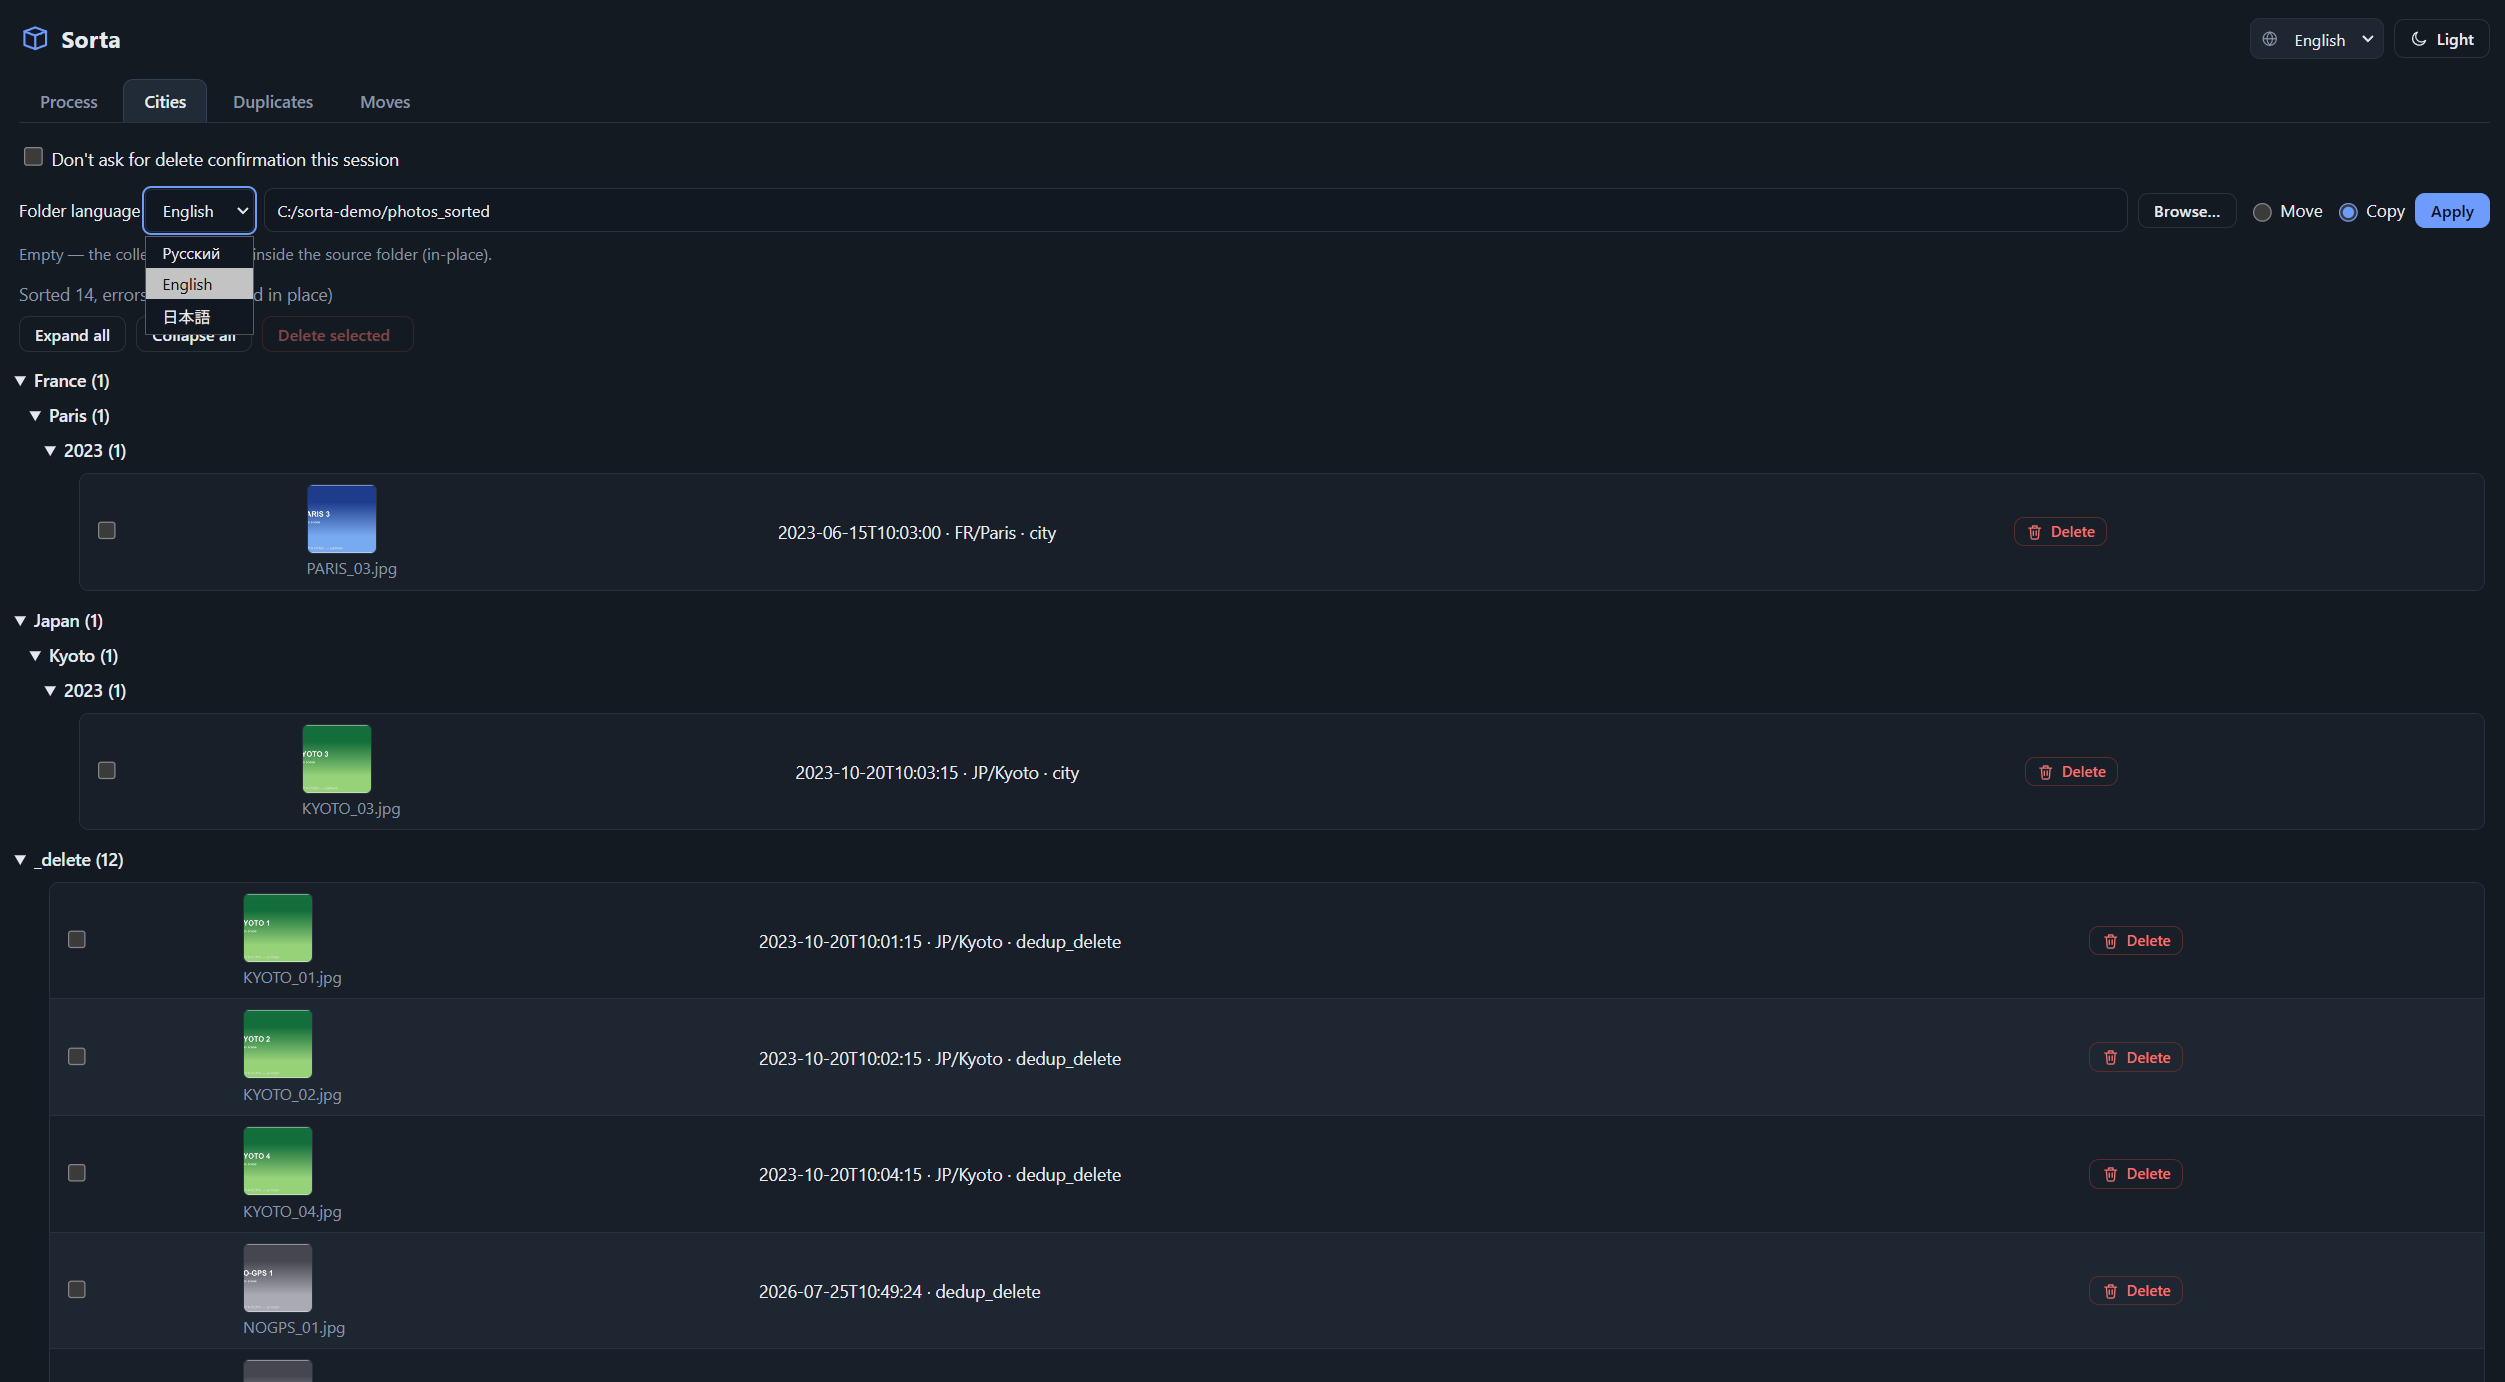
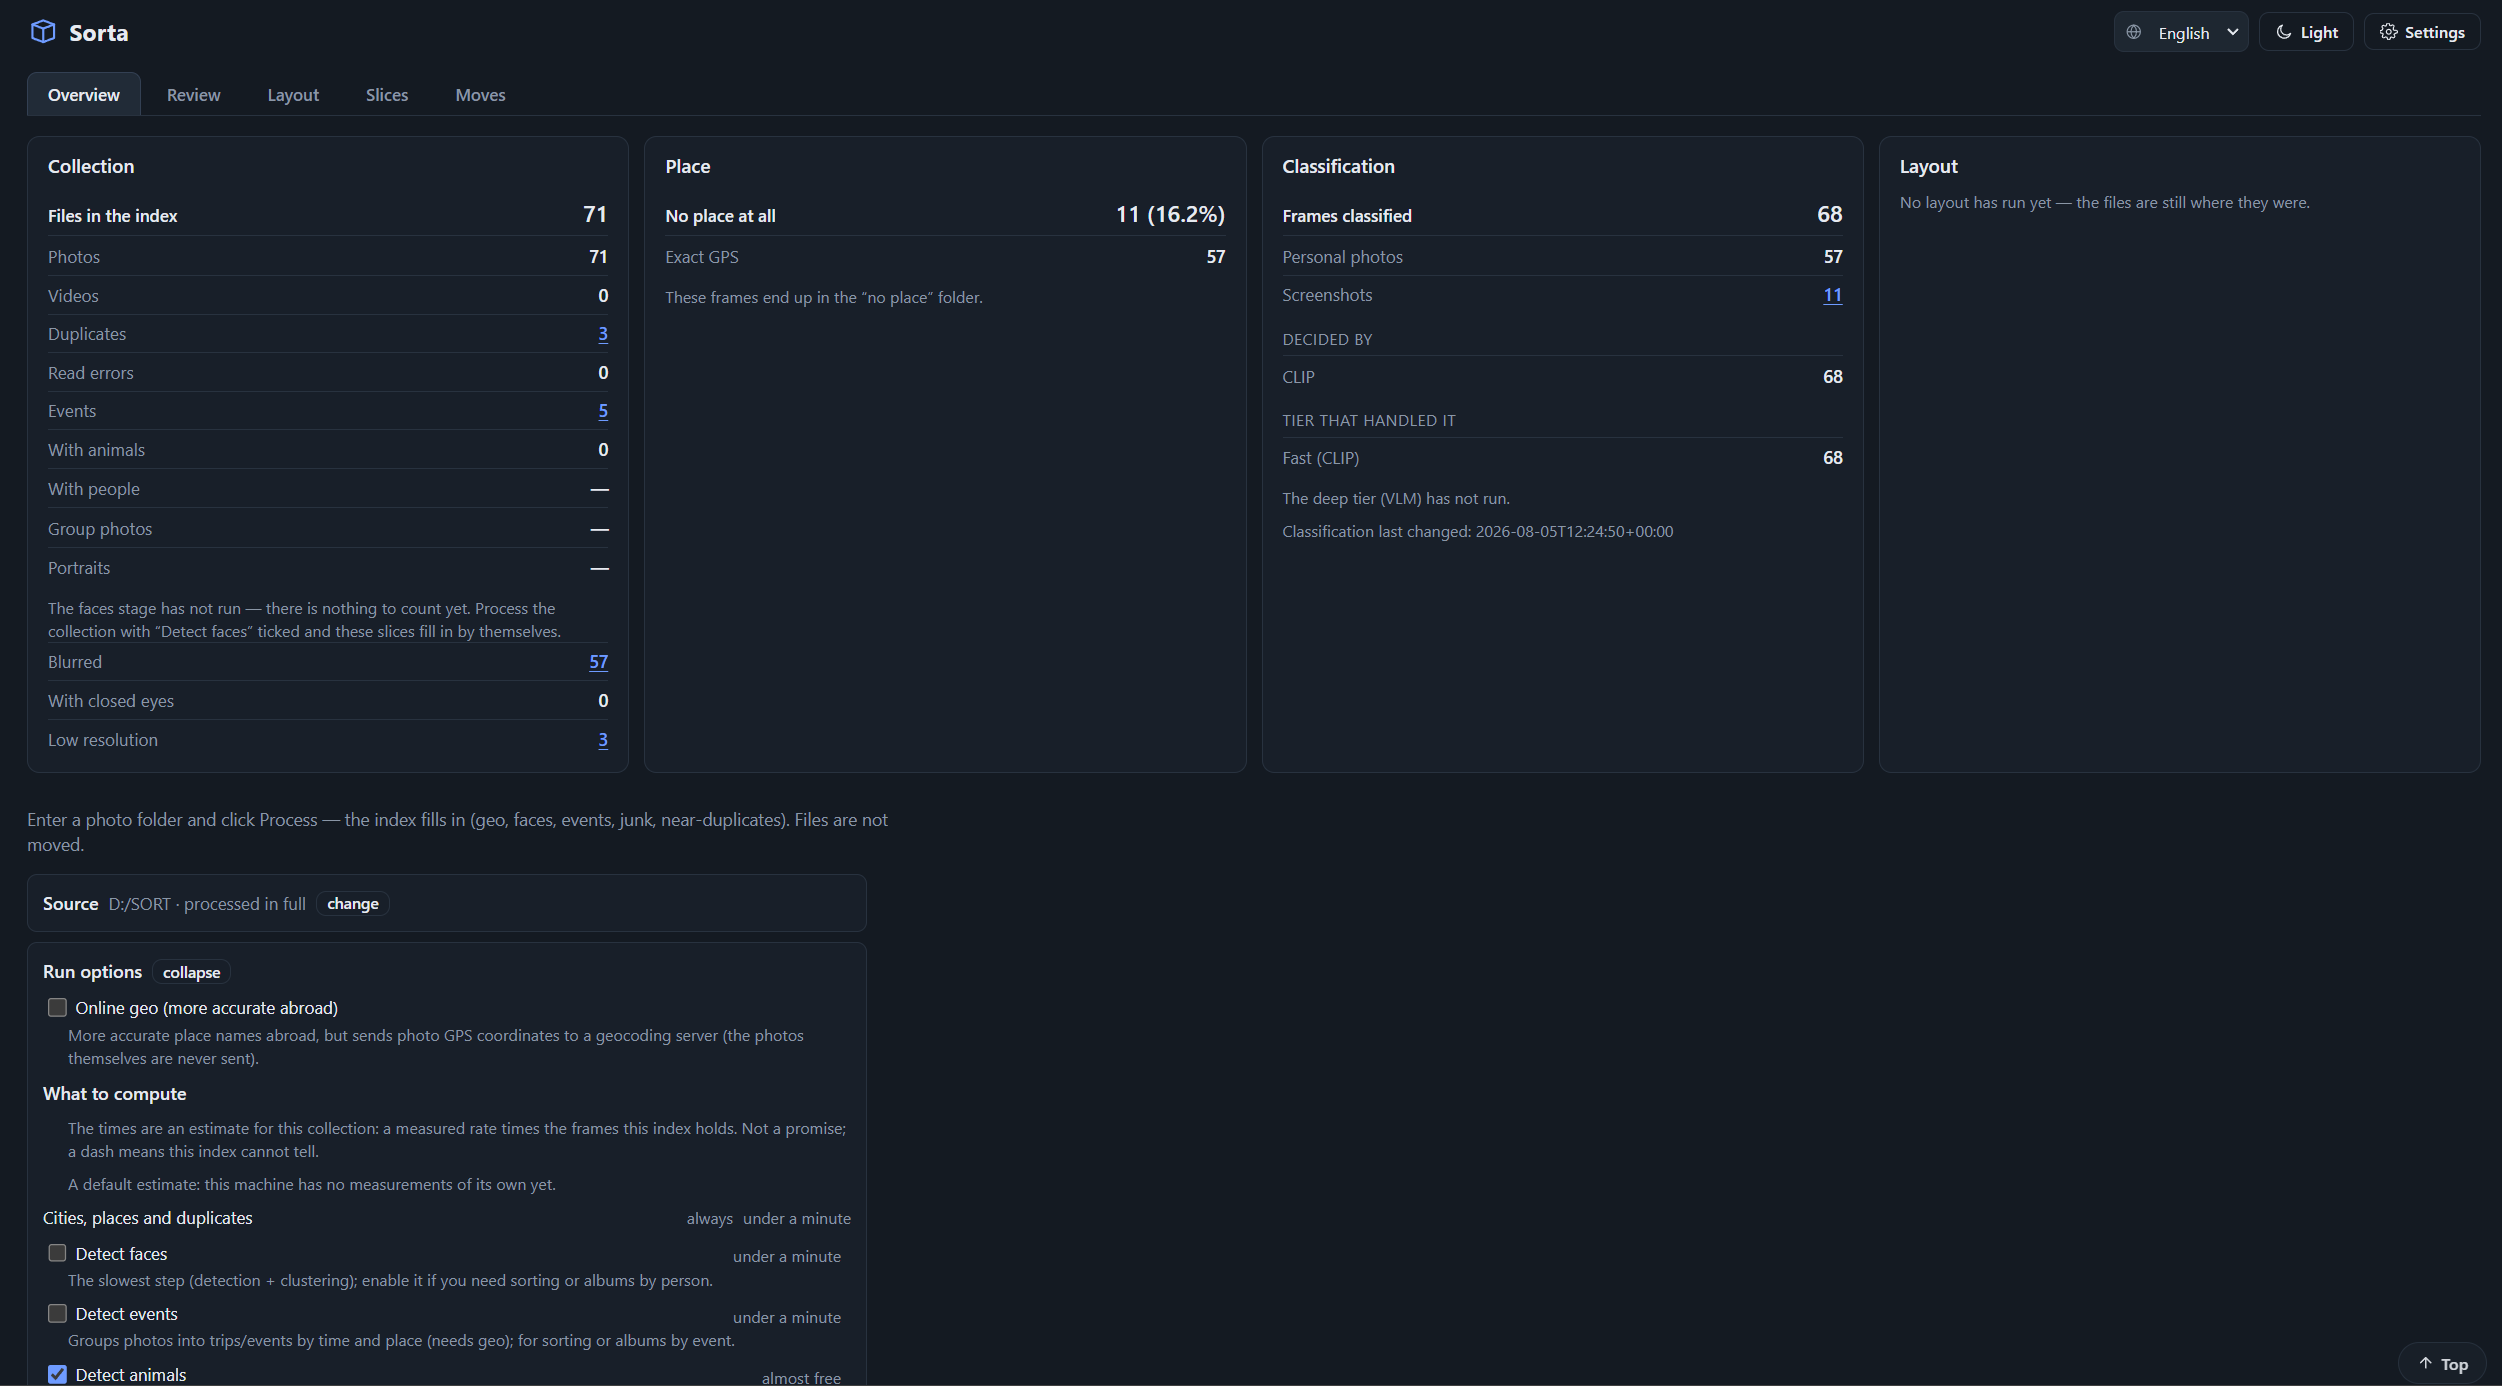
New screenshots, and the captions stop naming a tab that is gone
The two in the README described "the Cities tab" — F133 replaced that
arrangement months ago with Overview / Review / Layout / Slices / Moves, and
the pictures had been showing an interface nobody could open since.

Recaptured on a fresh synthetic collection (71 generated JPEGs with fake
EXIF/GPS, all three tiers of sameness present so the duplicates screen has
something to say). process.png is the Overview; layout.png is new and shows
what F192 did to the Layout tab — the two things needed every time on the
desk, everything else behind the gear.

A trap worth recording, found by looking at the first attempt: the source
folder is remembered in the browser's localStorage, so a demo instance
served from the same 127.0.0.1:8756 restored the path of a REAL session into
the Source field and it landed in the screenshot. Nothing leaked from the
server — the path was in the browser — but the picture carried it anyway.
The asset README now says to capture in a private window.

diff --git a/docs/assets/README.md b/docs/assets/README.md
@@ -1,8 +1,15 @@
 # Screenshot assets
 
-`hero.gif` and `process.png` (referenced from the top‑level README) are captured on
-a **synthetic** demo collection — generated JPEGs with fake EXIF/GPS labelled "SORTA
-DEMO", no real photos or people. Regenerate them the same way if the UI changes.
+`hero.gif`, `process.png` and `layout.png` (referenced from the top‑level README) are
+captured on a **synthetic** demo collection — generated JPEGs with fake EXIF/GPS labelled
+"SORTA DEMO", no real photos or people. `icon.png` is the brand mark the header draws.
+Regenerate them the same way if the UI changes.
+
+**One trap when recapturing.** The web app remembers the last source folder in the
+browser's `localStorage`, and a demo instance served from the same `127.0.0.1:8756` will
+restore the path of a REAL session into the Source field. Nothing leaks from the server —
+the path is in the browser — but it lands in the screenshot all the same. Capture in a
+private window, or process the demo folder once so the remembered path is the demo's.
 
 The user guides currently ship **without** UI screenshots (text worked‑examples
 with real command output carry the walkthrough instead). To add real screenshots

diff --git a/README.ru.md b/README.ru.md
@@ -78,7 +78,9 @@ Sorta работает **локально** (ML‑модели для лиц, с
 
 ---
 
-![Вкладка «Города» — предлагаемое дерево Страна / Город / Год, которое проверяют до перемещения](docs/assets/process.png)
+![Вкладка «Обзор» — состояние коллекции одним экраном, каждое число ведёт к кадрам за ним](docs/assets/process.png)
+
+![Вкладка «Раскладка» — на столе две вещи, нужные каждый раз: куда и по какому признаку; остальное за шестерёнкой](docs/assets/layout.png)
 
 ### Две точки входа, у каждой своя работа
 

diff --git a/README.md b/README.md
@@ -76,7 +76,9 @@ app**.
 
 ---
 
-![The Cities tab — the proposed Country / City / Year folder tree, reviewed before anything moves](docs/assets/process.png)
+![The Overview tab — the condition of the collection on one screen, every number a link into the frames behind it](docs/assets/process.png)
+
+![The Layout tab — the two things needed every time (where, and by what) on the desk; everything else behind the gear](docs/assets/layout.png)
 
 ### Two entry points, one job each
 
